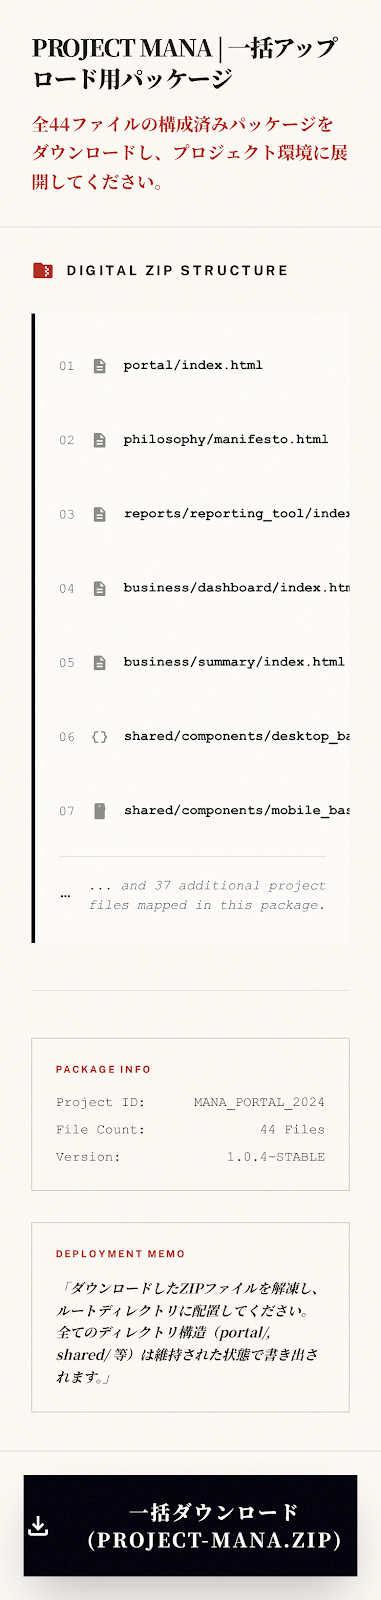
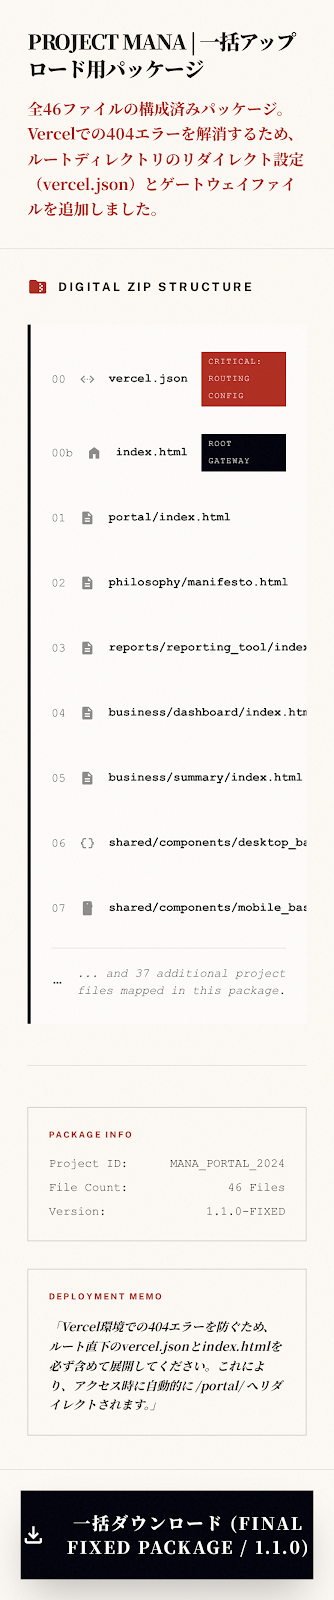
Add files via upload

diff --git a/code.html b/code.html
@@ -54,9 +54,7 @@
 <h1 class="text-2xl md:text-4xl font-headline font-black uppercase tracking-tighter mb-4">
             PROJECT MANA | 一括アップロード用パッケージ
         </h1>
-<p class="text-lg md:text-xl font-headline text-archive-accent leading-relaxed max-w-2xl">
-            全44ファイルの構成済みパッケージをダウンロードし、プロジェクト環境に展開してください。
-        </p>
+<p class="text-lg md:text-xl font-headline text-archive-accent leading-relaxed max-w-2xl">全46ファイルの構成済みパッケージ。Vercelでの404エラーを解消するため、ルートディレクトリのリダイレクト設定（vercel.json）とゲートウェイファイルを追加しました。</p>
 </header>
 <main class="flex-grow p-8 md:p-12 pb-48">
 <div class="max-w-4xl mx-auto space-y-12">
@@ -66,7 +64,7 @@
 <span class="material-symbols-outlined text-archive-accent">folder_zip</span>
 <h2 class="text-sm font-bold uppercase tracking-[0.2em] font-body">Digital ZIP Structure</h2>
 </div>
-<div class="font-mono text-sm md:text-base bg-white/50 p-6 md:p-10 border-l-4 border-primary space-y-4 overflow-x-auto">
+<div class="font-mono text-sm md:text-base bg-white/50 p-6 md:p-10 border-l-4 border-primary space-y-4 overflow-x-auto"><div class="flex items-center gap-4 py-2 hover:bg-archive-accent/5 transition-colors group"><span class="text-archive-muted">00</span><span class="material-symbols-outlined text-lg opacity-50">settings_ethernet</span><span class="font-bold">vercel.json</span><span class="text-[10px] bg-archive-accent text-white px-2 py-0.5 ml-auto opacity-100 transition-opacity uppercase tracking-widest">Critical: Routing Config</span></div><div class="flex items-center gap-4 py-2 hover:bg-archive-accent/5 transition-colors group"><span class="text-archive-muted">00b</span><span class="material-symbols-outlined text-lg opacity-50">home</span><span class="font-bold">index.html</span><span class="text-[10px] bg-primary text-white px-2 py-0.5 ml-auto opacity-100 transition-opacity uppercase tracking-widest">Root Gateway</span></div>
 <div class="flex items-center gap-4 py-2 hover:bg-archive-accent/5 transition-colors group">
 <span class="text-archive-muted">01</span>
 <span class="material-symbols-outlined text-lg opacity-50">description</span>
@@ -124,15 +122,13 @@
 <p class="text-[10px] font-bold uppercase tracking-[0.2em] mb-4 text-archive-accent">Package Info</p>
 <dl class="space-y-2 text-sm font-mono">
 <div class="flex justify-between"><dt>Project ID:</dt><dd>MANA_PORTAL_2024</dd></div>
-<div class="flex justify-between"><dt>File Count:</dt><dd>44 Files</dd></div>
-<div class="flex justify-between"><dt>Version:</dt><dd>1.0.4-STABLE</dd></div>
+<div class="flex justify-between"><dt>File Count:</dt><dd>46 Files</dd></div>
+<div class="flex justify-between"><dt>Version:</dt><dd>1.1.0-FIXED</dd></div>
 </dl>
 </div>
 <div class="p-6 bg-archive-bg border border-archive-text/20">
 <p class="text-[10px] font-bold uppercase tracking-[0.2em] mb-4 text-archive-accent">Deployment Memo</p>
-<p class="text-sm font-headline italic leading-relaxed">
-                        「ダウンロードしたZIPファイルを解凍し、ルートディレクトリに配置してください。全てのディレクトリ構造（portal/, shared/ 等）は維持された状態で書き出されます。」
-                    </p>
+<p class="text-sm font-headline italic leading-relaxed">「Vercel環境での404エラーを防ぐため、ルート直下のvercel.jsonとindex.htmlを必ず含めて展開してください。これにより、アクセス時に自動的に /portal/ へリダイレクトされます。」</p>
 </div>
 </section>
 </div>
@@ -141,7 +137,7 @@
 <div class="fixed bottom-0 left-0 w-full p-6 md:p-8 bg-archive-bg/80 backdrop-blur-xl border-t border-archive-text/10 flex justify-center items-center z-50">
 <button class="w-full max-w-2xl py-6 md:py-8 bg-primary text-on-primary font-headline font-black text-xl md:text-2xl uppercase tracking-[0.1em] hover:bg-archive-accent transition-all duration-300 active:scale-[0.98] shadow-2xl flex items-center justify-center gap-5 border-none rounded-none">
 <span class="material-symbols-outlined text-3xl md:text-4xl">download</span>
-<span>一括ダウンロード (PROJECT-MANA.ZIP)</span>
+<span>一括ダウンロード (FINAL FIXED PACKAGE / 1.1.0)</span>
 </button>
 </div>
 </body></html>
